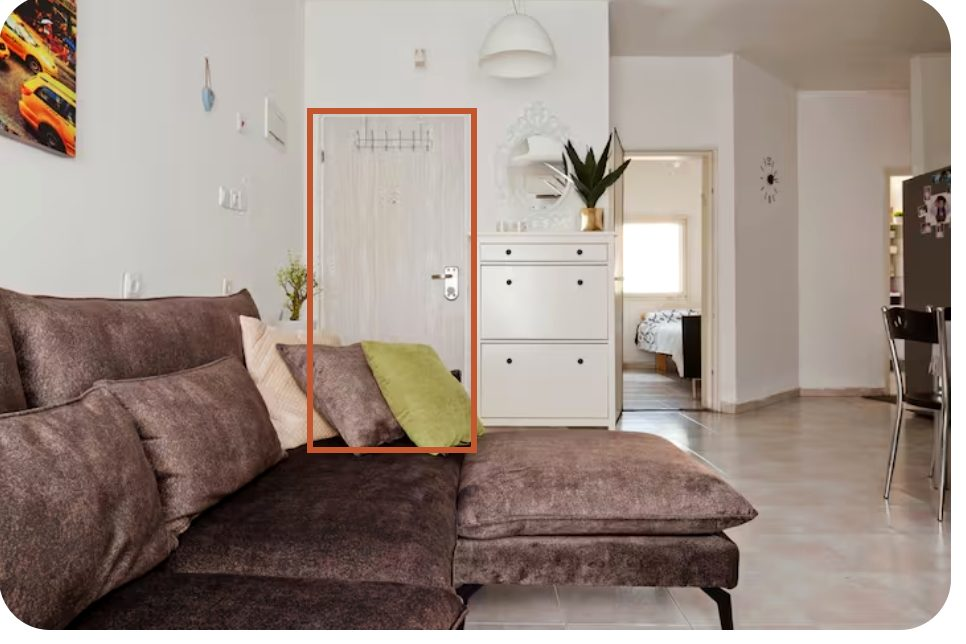
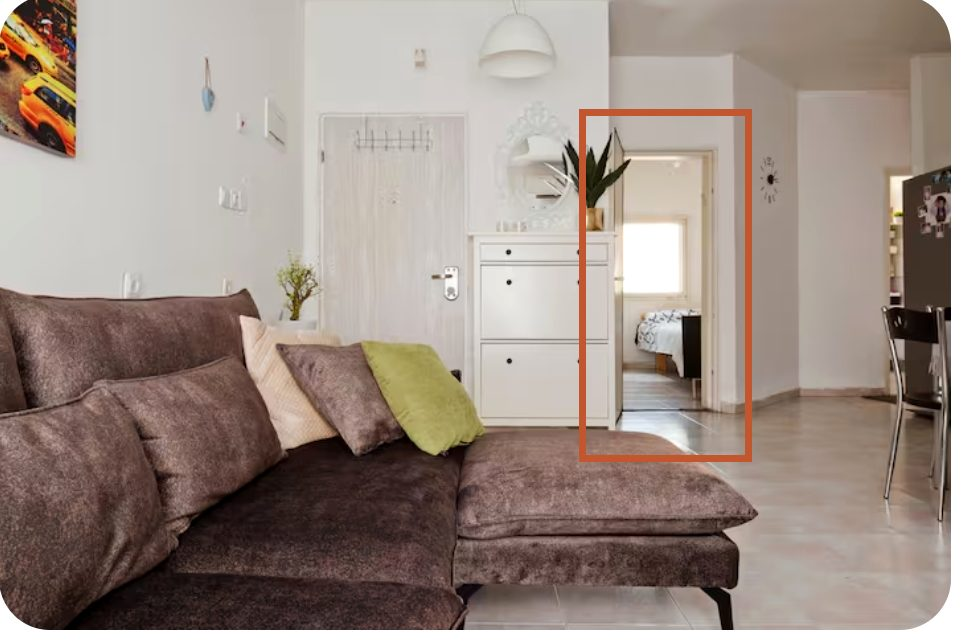
Shelter photo: mark the mamad (bedroom off the living room)

Changed region(s): [[0.5901, 0.1553, 0.7764, 0.7453], [0.3106, 0.1553, 0.4969, 0.7143]]

diff --git a/TODO.md b/TODO.md
@@ -9,7 +9,7 @@
 - [x] בוצע: עודכן את `house.json` ואת `app.js` (הכרטיס Wi-Fi), ולוודא ששום סוד לא נכנס להיסטוריה.
 
 ## 1. תוכן אמיתי לכרטיסים
-- [~] **חירום / מקלט** – טקסט מלא ב-3 שפות (ממ"ד ליד חדר השינה, ~90 שניות, 10 דקות, אפליקציית פיקוד העורף) – 29.9. נשאר: **תמונת המקלט** מאורן → `assets/img/house/shelter.jpg`, ובדיקת עין אנושית ל-DE/FR. טקסט "קפוא" ב-3 שפות, נבדק ידנית: איפה המקלט (קומה, כיוון), ~90 שניות, להישאר 10 דקות, אפליקציית פיקוד העורף. **אורן מצלם את המקלט** → `assets/img/house/shelter.jpg`.
+- [x] **חירום / מקלט** – טקסט מלא ב-3 שפות + תמונה מסומנת (29.9). נשאר רק: עין של דובר גרמנית/צרפתית. טקסט "קפוא" ב-3 שפות, נבדק ידנית: איפה המקלט (קומה, כיוון), ~90 שניות, להישאר 10 דקות, אפליקציית פיקוד העורף. **אורן מצלם את המקלט** → `assets/img/house/shelter.jpg`.
 - [ ] **רצועת "First hour"** בראש העמוד: מתג הדוד (היום כרטיס חמישי!), Wi-Fi (על הכרטיס), כפתור WhatsApp למארח, שעת צ'ק-אאוט 11:00.
 - [x] **דוד** – מתג במסדרון ליד האמבטיה + תמונה עם סימון (29.9). לצלם שוב אחרי הצביעה אם הקיר משתנה.
 - [ ] **טלוויזיה** – גייד קצר: הדלקה, נטפליקס / Apple TV / Amazon Prime / Free TV, מה לא לגעת. בלי "התחברו עם החשבון שלכם" – החשבונות של אורן מוכנים.
@@ -18,7 +18,7 @@
 - [~] **השלמות מטבח** – נספרסו (Cafe Joe) + מקציף + קפסולות: כתוב עם תמונה (29.9). נשאר: סודהסטרים, מיקרו, מה מותר לאורח – צריך פרטים/תמונה מאורן.
 - [ ] **כרטיס "Morning"** (הצעת ה-Outsider): סופר קרוב, מגבות, מכבסה. (פחים/מיחזור כבר בכרטיס כללי הבית.)
 - [x] **כללי הבית** – כרטיס ב-3 שפות, טון חיובי (29.9).
-- [~] **תמונת המקלט** – נכנסה לכרטיס החירום עם סימון על הדלת; **אורן לאשר שהדלת המסומנת היא הממ"ד** (ולא דלת הכניסה).
+- [x] **תמונת המקלט** – בכרטיס החירום, הממ"ד (חדר השינה מהסלון) מסומן (29.9).
 - [ ] אורן: לקרוא את 20 השיחות האחרונות ב-Airbnb → 5 השאלות הנפוצות = 5 הכרטיסים הראשונים.
 
 ## 2. תמונות
